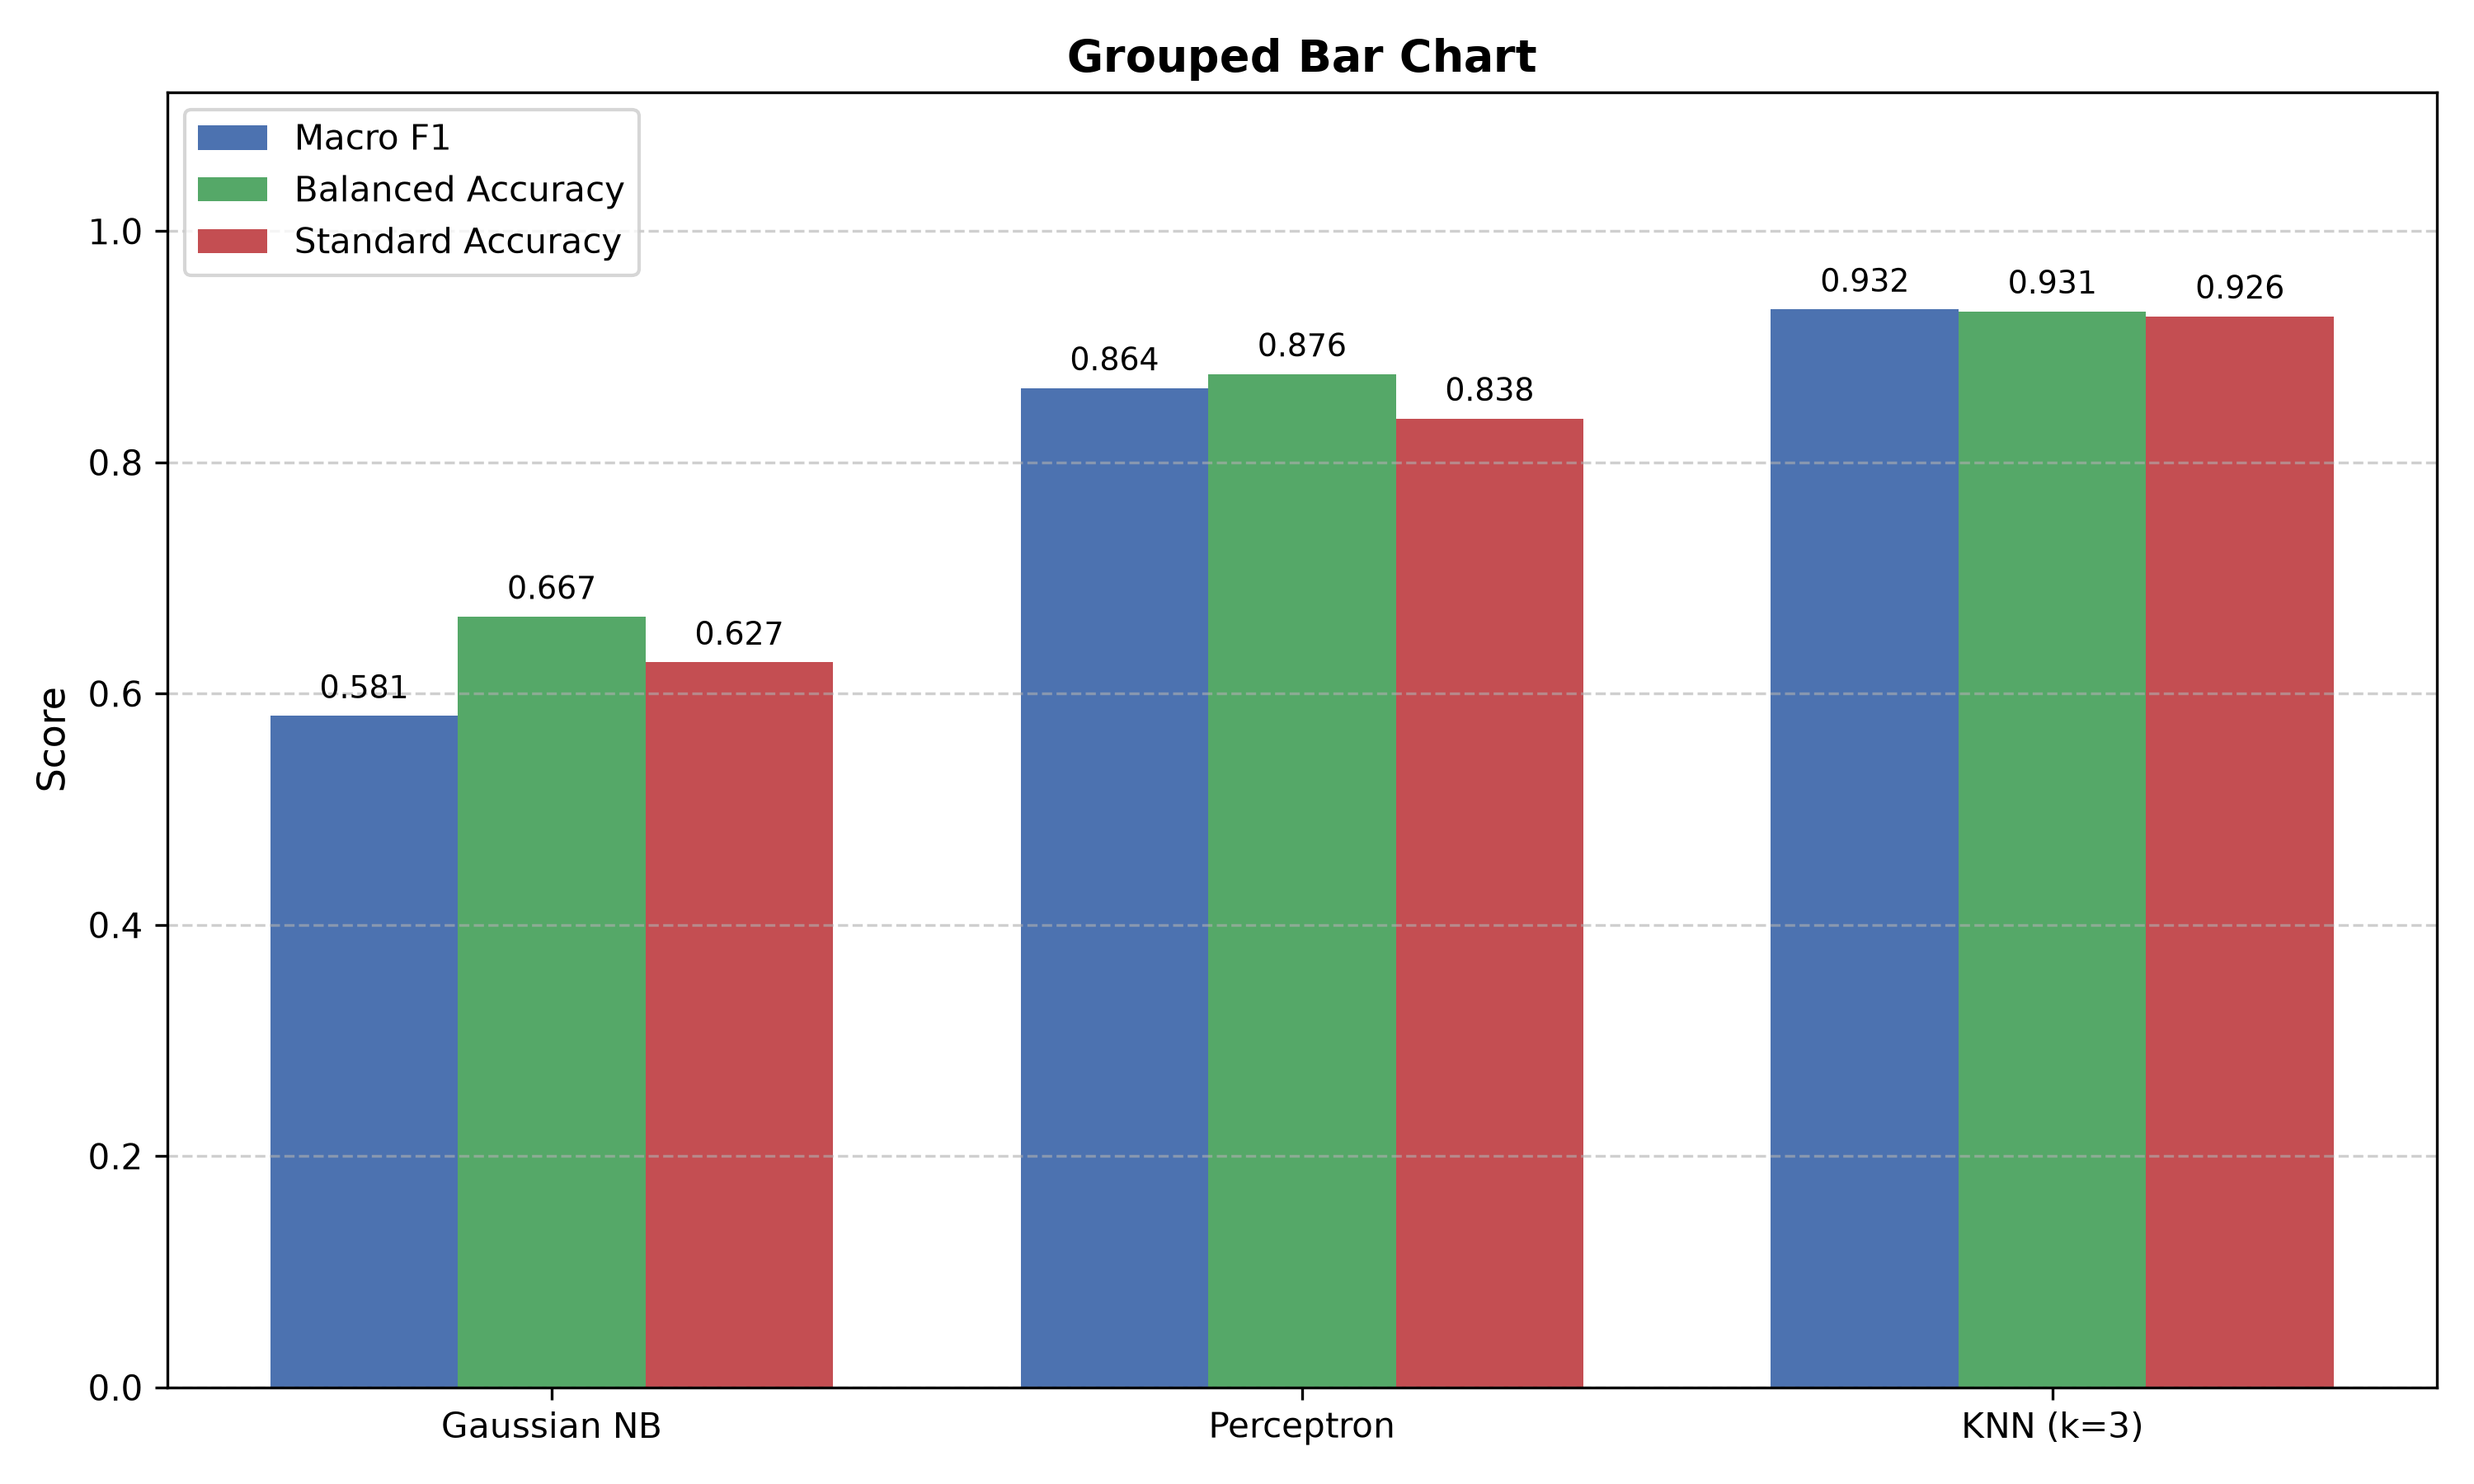
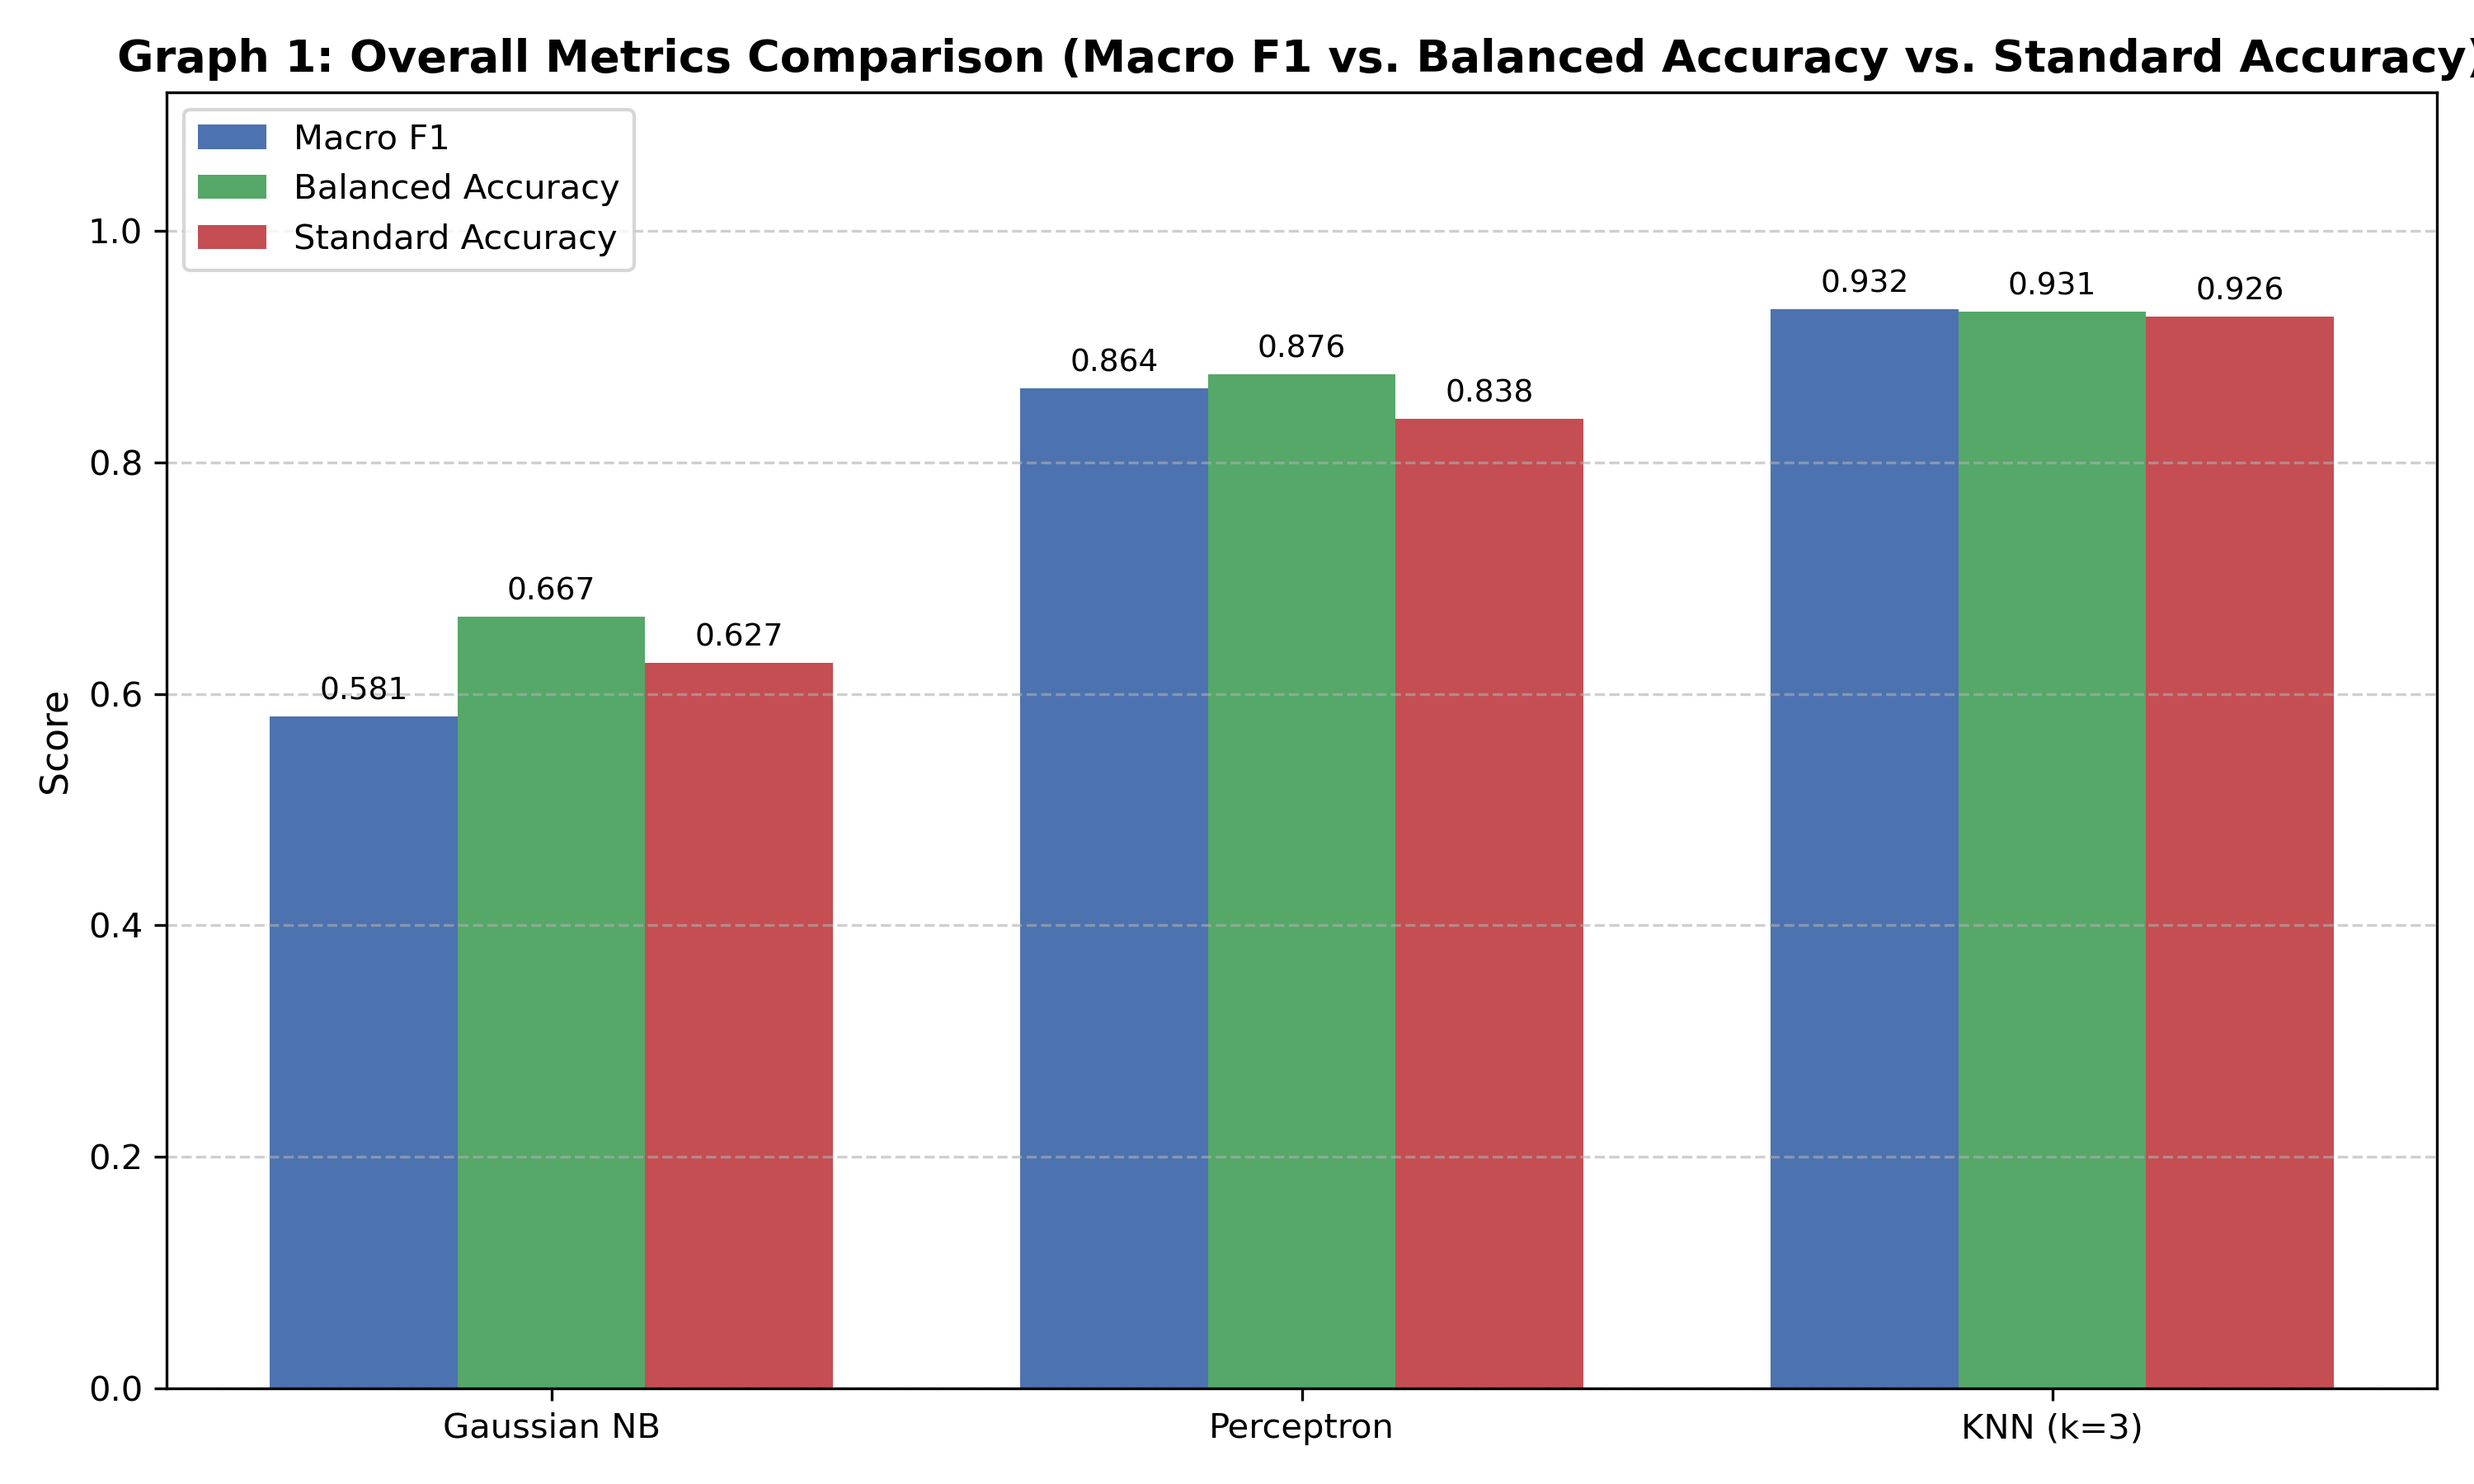
chore: moved tables to plots folder

diff --git a/compare_models.py b/compare_models.py
@@ -143,9 +143,13 @@ def print_confusion_matrix_tables(test_actual, model_predictions):
 def export_tables_to_csv(
     summary_rows,
     per_class_rows,
-    summary_csv_path="summary_metrics.csv",
-    per_class_csv_path="per_class_metrics.csv"
+    summary_csv_path="plots/summary_metrics.csv",
+    per_class_csv_path="plots/per_class_metrics.csv"
 ):
+    if os.path.dirname(summary_csv_path):
+        os.makedirs(os.path.dirname(summary_csv_path), exist_ok=True)
+    if os.path.dirname(per_class_csv_path):
+        os.makedirs(os.path.dirname(per_class_csv_path), exist_ok=True)
     with open(summary_csv_path, "w", newline="", encoding="utf-8") as file:
         writer = csv.writer(file)
         writer.writerow([
@@ -429,13 +433,13 @@ def table_comparison(test_actual, model_predictions):
     print_confusion_matrix_tables(test_actual, model_predictions)
 
     export_tables_to_csv(summary_rows, per_class_rows)
-    print("Exported comparison tables to 'summary_metrics.csv' and 'per_class_metrics.csv'.")
+    print("Exported comparison tables to 'plots/summary_metrics.csv' and 'plots/per_class_metrics.csv'.")
 
 
 if __name__ == "__main__":
-    nb_actual, nb_pred = load_predictions_csv("nb_predictions.csv")
-    _, perc_pred = load_predictions_csv("perceptron_predictions.csv")
-    _, knn_pred = load_predictions_csv("knn_predictions.csv")
+    nb_actual, nb_pred = load_predictions_csv("plots/nb_predictions.csv")
+    _, perc_pred = load_predictions_csv("plots/perceptron_predictions.csv")
+    _, knn_pred = load_predictions_csv("plots/knn_predictions.csv")
 
     models = [
         ("Gaussian Naive Bayes", nb_pred),

diff --git a/main.py b/main.py
@@ -1,4 +1,5 @@
 import csv
+import os
 import preprocess
 import split
 from gaussian_nb import NB_Classifier
@@ -24,7 +25,9 @@ nb_model = NB_Classifier()
 nb_model.fit(train)
 nb_predictions = nb_model.predict(test)
 
-with open('nb_predictions.csv', 'w', newline='', encoding='utf-8') as file:
+os.makedirs('plots', exist_ok=True)
+
+with open('plots/nb_predictions.csv', 'w', newline='', encoding='utf-8') as file:
     writer = csv.writer(file)
     writer.writerow(['actual', 'predicted'])
     for sample_index in range(len(test)):
@@ -37,7 +40,7 @@ perceptron_model = Perceptron()
 perceptron_model.fit(train)
 perceptron_predictions = perceptron_model.predict(test)
 
-with open('perceptron_predictions.csv', 'w', newline='', encoding='utf-8') as file:
+with open('plots/perceptron_predictions.csv', 'w', newline='', encoding='utf-8') as file:
     writer = csv.writer(file)
     writer.writerow(['actual', 'predicted'])
     for sample_index in range(len(test)):
@@ -50,7 +53,7 @@ knn_model = KNN(k = 3, p = 2)
 knn_model.fit(train)
 knn_predictions = knn_model.predict(test)
 
-with open('knn_predictions.csv', 'w', newline='', encoding='utf-8') as file:
+with open('plots/knn_predictions.csv', 'w', newline='', encoding='utf-8') as file:
     writer = csv.writer(file)
     writer.writerow(['actual', 'predicted'])
     for sample_index in range(len(test)):

diff --git a/perceptron.py b/perceptron.py
@@ -130,7 +130,9 @@ if __name__ == "__main__":
     model.fit(train_data)
     predictions = model.predict(test_data)
 
-    with open('perceptron_predictions.csv', 'w', newline='', encoding='utf-8') as file:
+    import os
+    os.makedirs('plots', exist_ok=True)
+    with open('plots/perceptron_predictions.csv', 'w', newline='', encoding='utf-8') as file:
         writer = csv.writer(file)
         writer.writerow(['actual', 'predicted'])
         for sample_index in range(len(test_data)):

diff --git a/gaussian_nb.py b/gaussian_nb.py
@@ -93,7 +93,9 @@ if __name__ == "__main__":
     model.fit(train_data)
     predictions = model.predict(test_data)
 
-    with open('nb_predictions.csv', 'w', newline='', encoding='utf-8') as file:
+    import os
+    os.makedirs('plots', exist_ok=True)
+    with open('plots/nb_predictions.csv', 'w', newline='', encoding='utf-8') as file:
         writer = csv.writer(file)
         writer.writerow(['actual', 'predicted'])
         for sample_index in range(len(test_data)):

diff --git a/README.md b/README.md
@@ -12,9 +12,9 @@ python3 main.py
 - KNN
 
 ### Prediction Result Files
-- nb_predictions.csv
-- perceptron_predictions.csv
-- knn_predictions.csv
+- plots/nb_predictions.csv
+- plots/perceptron_predictions.csv
+- plots/knn_predictions.csv
 
 ### Main Dataset
 - conflict_data_phl.csv
